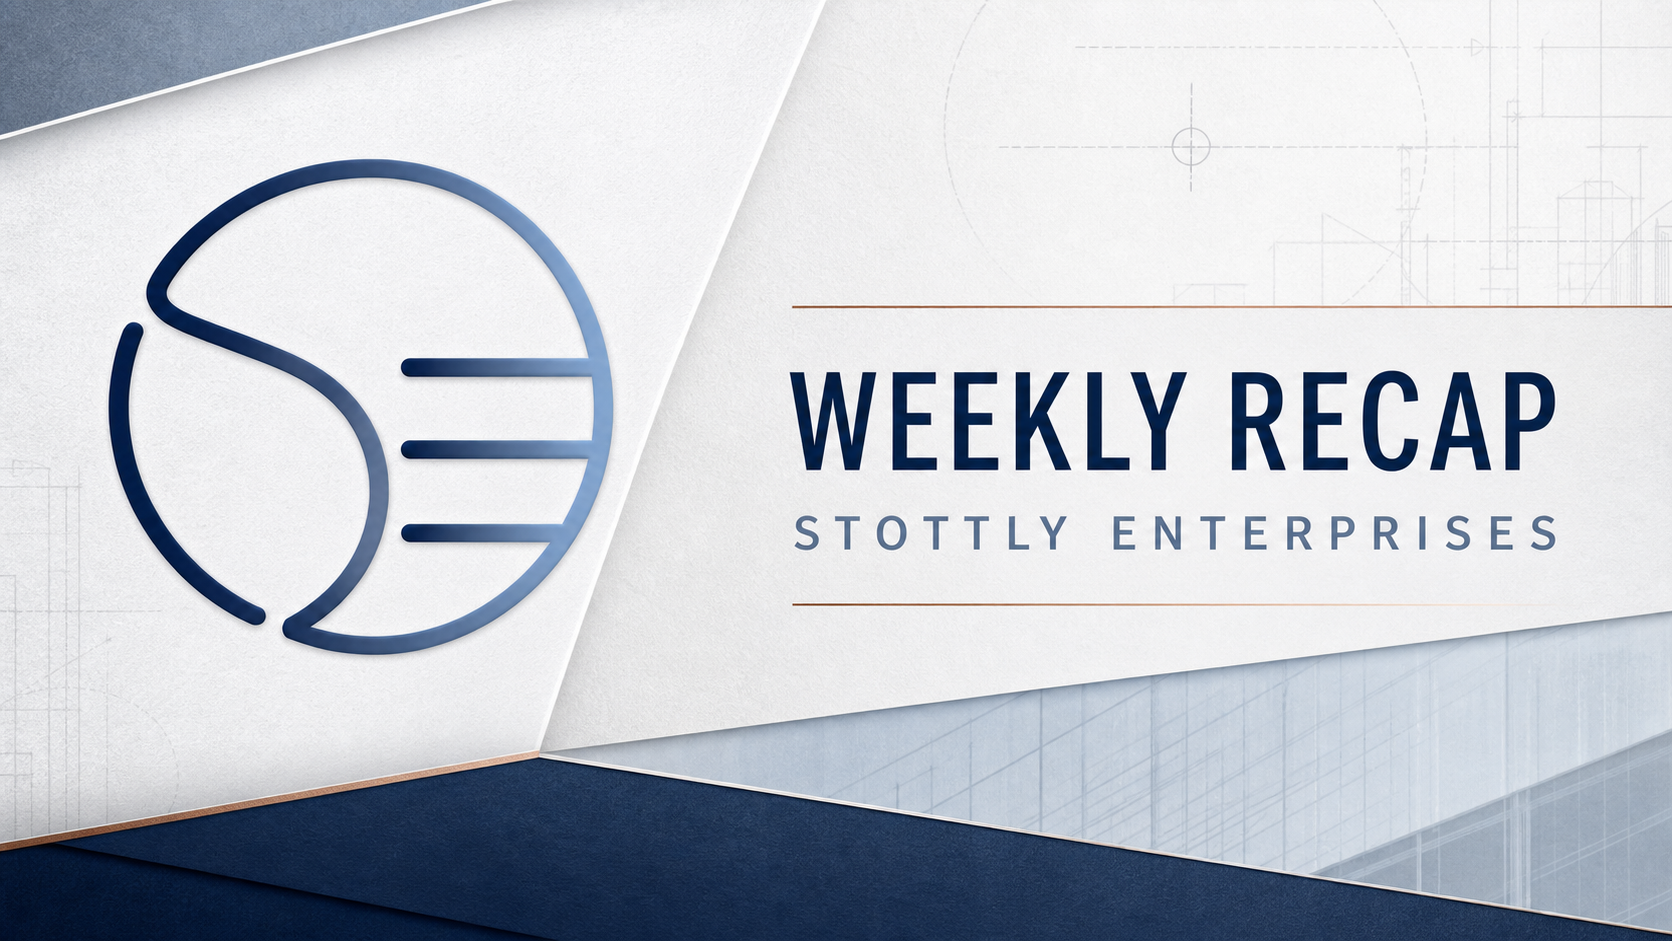
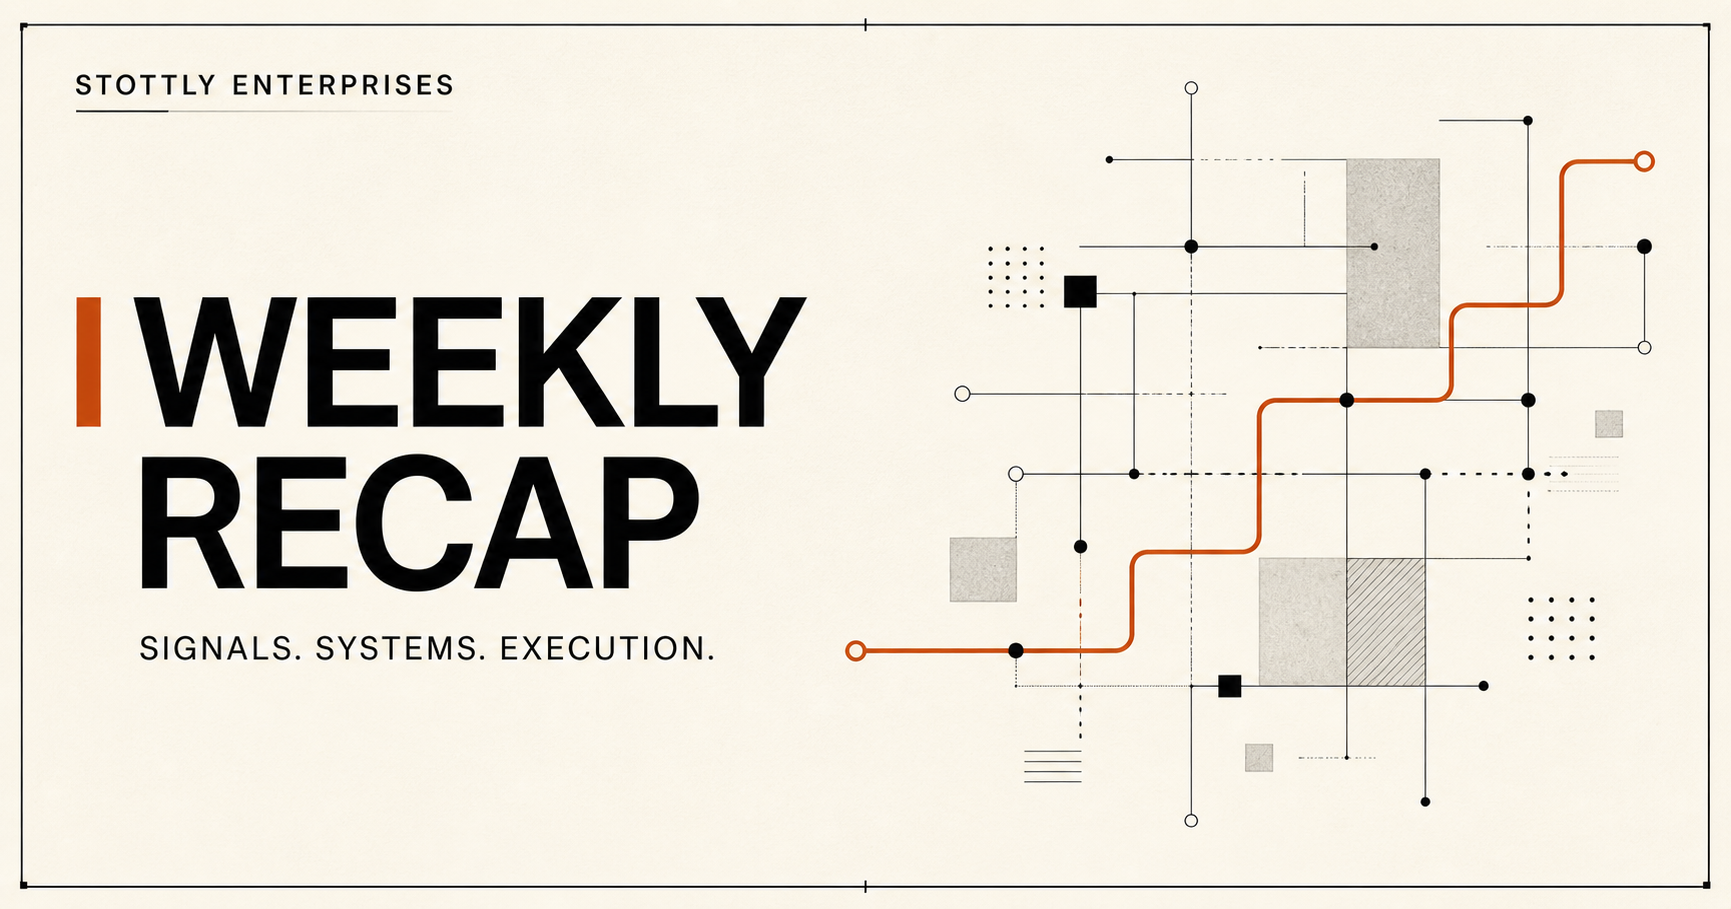
Replace weekly recap artwork

diff --git a/blog/in-case-you-missed-it-the-weekly-wrap-shifting-infrastructur.html b/blog/in-case-you-missed-it-the-weekly-wrap-shifting-infrastructur.html
@@ -10,7 +10,7 @@
 <meta property="og:description" content="This week in AI, the landscape shifted from experimentation to execution. Major players like Microsoft, Salesforce, and OpenAI doubled down on infrastructure and partnerships, while new regulations an...">
 <meta property="og:url" content="https://www.stottlyenterprises.com/blog/in-case-you-missed-it-the-weekly-wrap-shifting-infrastructur">
 <meta property="og:type" content="article">
-<meta property="og:image" content="https://www.stottlyenterprises.com/assets/blog/Weekly Recap.png">
+<meta property="og:image" content="https://www.stottlyenterprises.com/assets/blog/weekly-recap-banner.png">
 <style>
 :root{--ink:#1D1D1F;--slate:#6E6E73;--muted:#6E6E73;--sky1:#FBFBFA;--sky2:#F3F2EF;--sky3:#F3F2EF;--accent-deep:#B83A15;--line:rgba(0,0,0,0.08);--white:#FFFFFF;}
 *{box-sizing:border-box;margin:0;padding:0;}
@@ -34,7 +34,7 @@ footer{background:var(--white);color:var(--muted);padding:64px 0 32px;border-top
 .article-body p{font-size:17px;color:#3c4a5c;margin-bottom:24px;line-height:1.9;}
 .back-blog{display:inline-block;margin-top:40px;font-size:13px;letter-spacing:1px;text-transform:uppercase;color:var(--accent-deep);font-weight:600;}
 </style>
-<script type="application/ld+json">{"@context": "https://schema.org", "@type": "Article", "headline": "In Case You Missed It, The Weekly Wrap: Shifting Infrastructure, Regulation &amp; Real\u2011World Risk (Oct 19, 2025)", "description": "This week in AI, the landscape shifted from experimentation to execution. Major players like Microsoft, Salesforce, and OpenAI doubled down on infrastructure and partnerships, while new regulations an...", "image": "https://www.stottlyenterprises.com/assets/blog/Weekly Recap.png", "datePublished": "2025-10-19T11:53:00-04:00", "author": {"@type": "Organization", "name": "Stottly Enterprises"}, "publisher": {"@type": "Organization", "name": "Stottly Enterprises", "logo": {"@type": "ImageObject", "url": "https://www.stottlyenterprises.com/assets/se-logo-nav.png"}}, "mainEntityOfPage": {"@type": "WebPage", "@id": "https://www.stottlyenterprises.com/blog/in-case-you-missed-it-the-weekly-wrap-shifting-infrastructur"}}</script>
+<script type="application/ld+json">{"@context": "https://schema.org", "@type": "Article", "headline": "In Case You Missed It, The Weekly Wrap: Shifting Infrastructure, Regulation &amp; Real\u2011World Risk (Oct 19, 2025)", "description": "This week in AI, the landscape shifted from experimentation to execution. Major players like Microsoft, Salesforce, and OpenAI doubled down on infrastructure and partnerships, while new regulations an...", "image": "https://www.stottlyenterprises.com/assets/blog/weekly-recap-banner.png", "datePublished": "2025-10-19T11:53:00-04:00", "author": {"@type": "Organization", "name": "Stottly Enterprises"}, "publisher": {"@type": "Organization", "name": "Stottly Enterprises", "logo": {"@type": "ImageObject", "url": "https://www.stottlyenterprises.com/assets/se-logo-nav.png"}}, "mainEntityOfPage": {"@type": "WebPage", "@id": "https://www.stottlyenterprises.com/blog/in-case-you-missed-it-the-weekly-wrap-shifting-infrastructur"}}</script>
 <script type="application/ld+json">{"@context": "https://schema.org", "@type": "BreadcrumbList", "itemListElement": [{"@type": "ListItem", "position": 1, "name": "Home", "item": "https://www.stottlyenterprises.com/"}, {"@type": "ListItem", "position": 2, "name": "Blog", "item": "https://www.stottlyenterprises.com/blog"}, {"@type": "ListItem", "position": 3, "name": "In Case You Missed It, The Weekly Wrap: Shifting Infrastructure, Regulation & Real\u2011World Risk (Oct 19, 2025)", "item": "https://www.stottlyenterprises.com/blog/in-case-you-missed-it-the-weekly-wrap-shifting-infrastructur"}]}</script>
 <link rel="preconnect" href="https://fonts.googleapis.com">
 <link rel="preconnect" href="https://fonts.gstatic.com" crossorigin>
@@ -192,7 +192,7 @@ footer{background:var(--white);color:var(--muted);padding:64px 0 32px;border-top
 </div>
 
 <div id="main-content" class="article-hero">
-<img src="/assets/blog/Weekly Recap.png" alt="">
+<img src="/assets/blog/weekly-recap-banner.png" alt="Weekly recap from Stottly Enterprises">
 </div>
 <div class="article-wrap">
   <div class="article-tag">Archive</div>

diff --git a/blog/in-case-you-missed-it-in-case-you-missed-it-the-weekly-wrap.html b/blog/in-case-you-missed-it-in-case-you-missed-it-the-weekly-wrap.html
@@ -10,7 +10,7 @@
 <meta property="og:description" content="We’re excited to announce a change. From now on, StottifAI will publish a fresh blog post each day. We’re shifting from a few posts per week to daily insights in AI, business strategy, human and tech,...">
 <meta property="og:url" content="https://www.stottlyenterprises.com/blog/in-case-you-missed-it-in-case-you-missed-it-the-weekly-wrap">
 <meta property="og:type" content="article">
-<meta property="og:image" content="https://www.stottlyenterprises.com/assets/blog/Weekly Recap.png">
+<meta property="og:image" content="https://www.stottlyenterprises.com/assets/blog/weekly-recap-banner.png">
 <style>
 :root{--ink:#1D1D1F;--slate:#6E6E73;--muted:#6E6E73;--sky1:#FBFBFA;--sky2:#F3F2EF;--sky3:#F3F2EF;--accent-deep:#B83A15;--line:rgba(0,0,0,0.08);--white:#FFFFFF;}
 *{box-sizing:border-box;margin:0;padding:0;}
@@ -34,7 +34,7 @@ footer{background:var(--white);color:var(--muted);padding:64px 0 32px;border-top
 .article-body p{font-size:17px;color:#3c4a5c;margin-bottom:24px;line-height:1.9;}
 .back-blog{display:inline-block;margin-top:40px;font-size:13px;letter-spacing:1px;text-transform:uppercase;color:var(--accent-deep);font-weight:600;}
 </style>
-<script type="application/ld+json">{"@context": "https://schema.org", "@type": "Article", "headline": "In Case You Missed It. In Case You Missed It, The Weekly Wrap (Oct 12, 2025)", "description": "We\u2019re excited to announce a change. From now on, StottifAI will publish a fresh blog post each day. We\u2019re shifting from a few posts per week to daily insights in AI, business strategy, human and tech,...", "image": "https://www.stottlyenterprises.com/assets/blog/Weekly Recap.png", "datePublished": "2025-10-12T10:10:00-04:00", "author": {"@type": "Organization", "name": "Stottly Enterprises"}, "publisher": {"@type": "Organization", "name": "Stottly Enterprises", "logo": {"@type": "ImageObject", "url": "https://www.stottlyenterprises.com/assets/se-logo-nav.png"}}, "mainEntityOfPage": {"@type": "WebPage", "@id": "https://www.stottlyenterprises.com/blog/in-case-you-missed-it-in-case-you-missed-it-the-weekly-wrap"}}</script>
+<script type="application/ld+json">{"@context": "https://schema.org", "@type": "Article", "headline": "In Case You Missed It. In Case You Missed It, The Weekly Wrap (Oct 12, 2025)", "description": "We\u2019re excited to announce a change. From now on, StottifAI will publish a fresh blog post each day. We\u2019re shifting from a few posts per week to daily insights in AI, business strategy, human and tech,...", "image": "https://www.stottlyenterprises.com/assets/blog/weekly-recap-banner.png", "datePublished": "2025-10-12T10:10:00-04:00", "author": {"@type": "Organization", "name": "Stottly Enterprises"}, "publisher": {"@type": "Organization", "name": "Stottly Enterprises", "logo": {"@type": "ImageObject", "url": "https://www.stottlyenterprises.com/assets/se-logo-nav.png"}}, "mainEntityOfPage": {"@type": "WebPage", "@id": "https://www.stottlyenterprises.com/blog/in-case-you-missed-it-in-case-you-missed-it-the-weekly-wrap"}}</script>
 <script type="application/ld+json">{"@context": "https://schema.org", "@type": "BreadcrumbList", "itemListElement": [{"@type": "ListItem", "position": 1, "name": "Home", "item": "https://www.stottlyenterprises.com/"}, {"@type": "ListItem", "position": 2, "name": "Blog", "item": "https://www.stottlyenterprises.com/blog"}, {"@type": "ListItem", "position": 3, "name": "In Case You Missed It. In Case You Missed It, The Weekly Wrap (Oct 12, 2025)", "item": "https://www.stottlyenterprises.com/blog/in-case-you-missed-it-in-case-you-missed-it-the-weekly-wrap"}]}</script>
 <link rel="preconnect" href="https://fonts.googleapis.com">
 <link rel="preconnect" href="https://fonts.gstatic.com" crossorigin>
@@ -192,7 +192,7 @@ footer{background:var(--white);color:var(--muted);padding:64px 0 32px;border-top
 </div>
 
 <div id="main-content" class="article-hero">
-<img src="/assets/blog/Weekly Recap.png" alt="">
+<img src="/assets/blog/weekly-recap-banner.png" alt="Weekly recap from Stottly Enterprises">
 </div>
 <div class="article-wrap">
   <div class="article-tag">Archive</div>

diff --git a/blog/weekly-recap-june-29-july-4-2026.html b/blog/weekly-recap-june-29-july-4-2026.html
@@ -10,7 +10,7 @@
 <meta property="og:description" content="This week: AI receptionists, a broad jobs dip, fake AI tool scams, cheaper AI video, and restaurant chains coaching managers instead of customers.">
 <meta property="og:url" content="https://www.stottlyenterprises.com/blog/weekly-recap-june-29-july-4-2026">
 <meta property="og:type" content="article">
-<meta property="og:image" content="https://www.stottlyenterprises.com/assets/se-logo-nav.png">
+<meta property="og:image" content="https://www.stottlyenterprises.com/assets/blog/weekly-recap-banner.png">
 <style>
 
 :root{
@@ -243,7 +243,7 @@ footer{background:var(--white);color:var(--muted);padding:64px 0 32px;border-top
 .stottly-scope .pr-tag{font-size:11px;letter-spacing:1.5px;text-transform:uppercase;color:var(--accent-deep);font-weight:600;margin-bottom:18px;}
 .stottly-scope .pr-dateline{font-size:13px;color:var(--muted);margin-bottom:26px;}
 </style>
-<script type="application/ld+json">{"@context": "https://schema.org", "@type": "Article", "headline": "Weekly AI & Small Business News Recap \u2014 June 29\u2013July 4", "description": "This week: AI receptionists, a broad jobs dip, fake AI tool scams, cheaper AI video, and restaurant chains coaching managers instead of customers.", "image": "https://www.stottlyenterprises.com/assets/se-logo-nav.png", "datePublished": "2026-07-05", "author": {"@type": "Organization", "name": "Stottly Enterprises"}, "publisher": {"@type": "Organization", "name": "Stottly Enterprises", "logo": {"@type": "ImageObject", "url": "https://www.stottlyenterprises.com/assets/se-logo-nav.png"}}, "mainEntityOfPage": {"@type": "WebPage", "@id": "https://www.stottlyenterprises.com/blog/weekly-recap-june-29-july-4-2026"}}</script>
+<script type="application/ld+json">{"@context": "https://schema.org", "@type": "Article", "headline": "Weekly AI & Small Business News Recap \u2014 June 29\u2013July 4", "description": "This week: AI receptionists, a broad jobs dip, fake AI tool scams, cheaper AI video, and restaurant chains coaching managers instead of customers.", "image": "https://www.stottlyenterprises.com/assets/blog/weekly-recap-banner.png", "datePublished": "2026-07-05", "author": {"@type": "Organization", "name": "Stottly Enterprises"}, "publisher": {"@type": "Organization", "name": "Stottly Enterprises", "logo": {"@type": "ImageObject", "url": "https://www.stottlyenterprises.com/assets/se-logo-nav.png"}}, "mainEntityOfPage": {"@type": "WebPage", "@id": "https://www.stottlyenterprises.com/blog/weekly-recap-june-29-july-4-2026"}}</script>
 <script type="application/ld+json">{"@context": "https://schema.org", "@type": "BreadcrumbList", "itemListElement": [{"@type": "ListItem", "position": 1, "name": "Home", "item": "https://www.stottlyenterprises.com/"}, {"@type": "ListItem", "position": 2, "name": "Blog", "item": "https://www.stottlyenterprises.com/blog"}, {"@type": "ListItem", "position": 3, "name": "Weekly AI & Small Business News Recap \u2014 June 29\u2013July 4", "item": "https://www.stottlyenterprises.com/blog/weekly-recap-june-29-july-4-2026"}]}</script>
 <link rel="preconnect" href="https://fonts.googleapis.com">
 <link rel="preconnect" href="https://fonts.gstatic.com" crossorigin>
@@ -402,6 +402,7 @@ footer{background:var(--white);color:var(--muted);padding:64px 0 32px;border-top
 
 
 <div id="main-content" class="stottly-scope">
+<div class="article-hero"><img src="/assets/blog/weekly-recap-banner.png" alt="Weekly recap from Stottly Enterprises"></div>
 <section class="page-hero">
   <div class="page-hero-bg"></div>
   <div class="wrap page-hero-content">

diff --git a/blog/weekly-recap-july-6-11-2026.html b/blog/weekly-recap-july-6-11-2026.html
@@ -10,7 +10,7 @@
 <meta property="og:description" content="This week: a Five Eyes AI cyberattack warning, open-source AI catching up, the ROI gap in AI agents, and why managing AI well is the new edge.">
 <meta property="og:url" content="https://www.stottlyenterprises.com/blog/weekly-recap-july-6-11-2026">
 <meta property="og:type" content="article">
-<meta property="og:image" content="https://www.stottlyenterprises.com/assets/se-logo-nav.png">
+<meta property="og:image" content="https://www.stottlyenterprises.com/assets/blog/weekly-recap-banner.png">
 <style>
 
 :root{
@@ -243,7 +243,7 @@ footer{background:var(--white);color:var(--muted);padding:64px 0 32px;border-top
 .stottly-scope .pr-tag{font-size:11px;letter-spacing:1.5px;text-transform:uppercase;color:var(--accent-deep);font-weight:600;margin-bottom:18px;}
 .stottly-scope .pr-dateline{font-size:13px;color:var(--muted);margin-bottom:26px;}
 </style>
-<script type="application/ld+json">{"@context": "https://schema.org", "@type": "Article", "headline": "Weekly AI & Small Business News Recap \u2014 July 6\u201311", "description": "This week: a Five Eyes AI cyberattack warning, open-source AI catching up, the ROI gap in AI agents, and why managing AI well is the new edge.", "image": "https://www.stottlyenterprises.com/assets/se-logo-nav.png", "datePublished": "2026-07-12", "author": {"@type": "Organization", "name": "Stottly Enterprises"}, "publisher": {"@type": "Organization", "name": "Stottly Enterprises", "logo": {"@type": "ImageObject", "url": "https://www.stottlyenterprises.com/assets/se-logo-nav.png"}}, "mainEntityOfPage": {"@type": "WebPage", "@id": "https://www.stottlyenterprises.com/blog/weekly-recap-july-6-11-2026"}}</script>
+<script type="application/ld+json">{"@context": "https://schema.org", "@type": "Article", "headline": "Weekly AI & Small Business News Recap \u2014 July 6\u201311", "description": "This week: a Five Eyes AI cyberattack warning, open-source AI catching up, the ROI gap in AI agents, and why managing AI well is the new edge.", "image": "https://www.stottlyenterprises.com/assets/blog/weekly-recap-banner.png", "datePublished": "2026-07-12", "author": {"@type": "Organization", "name": "Stottly Enterprises"}, "publisher": {"@type": "Organization", "name": "Stottly Enterprises", "logo": {"@type": "ImageObject", "url": "https://www.stottlyenterprises.com/assets/se-logo-nav.png"}}, "mainEntityOfPage": {"@type": "WebPage", "@id": "https://www.stottlyenterprises.com/blog/weekly-recap-july-6-11-2026"}}</script>
 <script type="application/ld+json">{"@context": "https://schema.org", "@type": "BreadcrumbList", "itemListElement": [{"@type": "ListItem", "position": 1, "name": "Home", "item": "https://www.stottlyenterprises.com/"}, {"@type": "ListItem", "position": 2, "name": "Blog", "item": "https://www.stottlyenterprises.com/blog"}, {"@type": "ListItem", "position": 3, "name": "Weekly AI & Small Business News Recap \u2014 July 6\u201311", "item": "https://www.stottlyenterprises.com/blog/weekly-recap-july-6-11-2026"}]}</script>
 <link rel="preconnect" href="https://fonts.googleapis.com">
 <link rel="preconnect" href="https://fonts.gstatic.com" crossorigin>
@@ -402,6 +402,7 @@ footer{background:var(--white);color:var(--muted);padding:64px 0 32px;border-top
 
 
 <div id="main-content" class="stottly-scope">
+<div class="article-hero"><img src="/assets/blog/weekly-recap-banner.png" alt="Weekly recap from Stottly Enterprises"></div>
 <section class="page-hero">
   <div class="page-hero-bg"></div>
   <div class="wrap page-hero-content">
